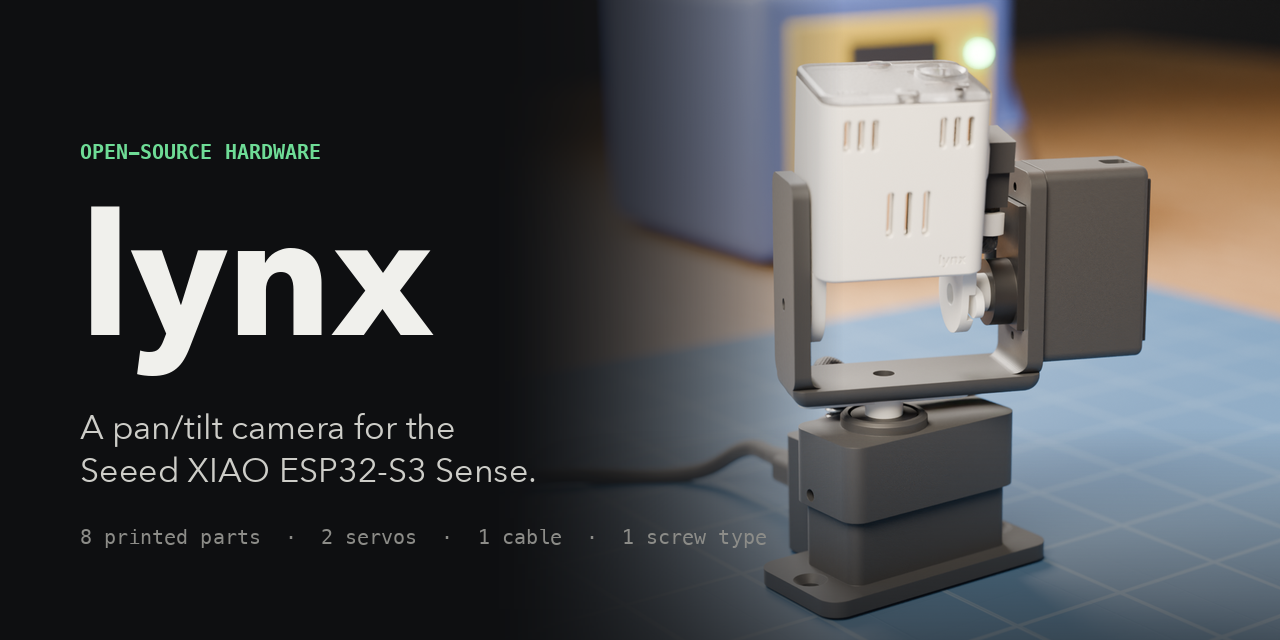
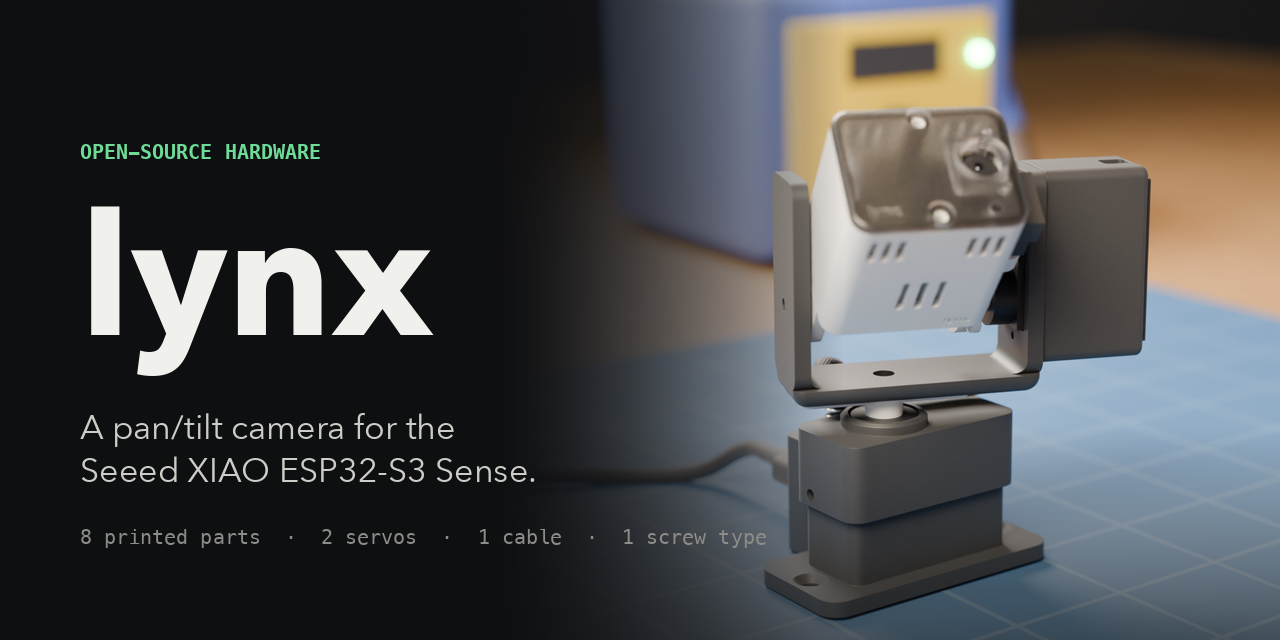
feat: rest pose leans the lens 45 degrees toward the front
Tilt 0 points the lens straight up. The site, the firmware's centre
command and boot pose, and its web UI now rest at tilt 45. A CAD sweep
confirms tilt -90..+90 is collision-free. The hero banner and social
preview are re-rendered at the new pose.

Claude-Session: https://claude.ai/code/session_01MBBuMNMMsvkZ54jHaR2o2x

Changed region(s): [[0.5938, 0.0938, 0.8438, 0.5625]]

diff --git a/web/src/main.js b/web/src/main.js
@@ -104,7 +104,8 @@ const ASSEMBLY = [
 document.getElementById("steps").innerHTML = ASSEMBLY.map(([, t]) => `<li>${t}</li>`).join("");
 // explode amount per part (0 assembled .. 1 exploded); the tilt group lifts off the yoke as a whole
 const explode = Object.fromEntries(Object.keys(EXPL).map((k) => [k, 0]));
-const state = { pan: 0, tilt: 0, lift: 0, plug: 1, card: 1, led: 0, arcs: 0 };
+const REST_TILT = 45;   // at rest the lens leans 45 deg toward the front (0 = straight up)
+const state = { pan: 0, tilt: REST_TILT, lift: 0, plug: 1, card: 1, led: 0, arcs: 0 };
 const LIFT_MM = 22;
 
 function applyParts() {
@@ -266,13 +267,13 @@ function buildTimeline() {
   tl.to(state, { led: 1, duration: 0.01 }, at(1) + 0.075);
   // sd
   toShot(tl, "sd", at(2) - 0.08, 0.11);                    // slower, gentler move into the close-up
-  tl.to(state, { pan: 0, tilt: 0, duration: 0.08 }, at(2) - 0.08);
+  tl.to(state, { pan: 0, tilt: REST_TILT, duration: 0.08 }, at(2) - 0.08);
   tl.to(state, { card: 0, duration: 0.05 }, at(2) + 0.02);
   // motion: sweep with eased glances
   toShot(tl, "motion", at(3) - 0.05, 0.07);
   tl.to(state, { arcs: 1, duration: 0.03 }, at(3));
   const m0 = at(3) + 0.02, m1 = at(4) - 0.06, step = (m1 - m0) / 6;
-  [[-88, 0], [88, 0], [0, -58], [0, 58], [-40, 25], [0, 0]].forEach(([p, t], i) =>
+  [[-88, REST_TILT], [88, REST_TILT], [0, -58], [0, 58], [-40, 25], [0, REST_TILT]].forEach(([p, t], i) =>
     tl.to(state, { pan: p, tilt: t, duration: step * 0.9, ease: "back.inOut(1.2)" }, m0 + i * step));
   tl.to(state, { arcs: 0, duration: 0.03 }, m1);
   // assembly: explode, then put back in build order

diff --git a/firmware/lynx-motion/src/page.h b/firmware/lynx-motion/src/page.h
@@ -12,7 +12,7 @@ button{margin-top:1.5rem;padding:.6rem 1.2rem;font-size:1rem}#s{opacity:.7;font-
 </style></head><body>
 <h1>lynx</h1>
 <label>Pan <span id="pv">0</span>&deg;</label><input id="pan" type="range" min="-88" max="88" value="0">
-<label>Tilt <span id="tv">0</span>&deg;</label><input id="tilt" type="range" min="-58" max="58" value="0">
+<label>Tilt <span id="tv">45</span>&deg;</label><input id="tilt" type="range" min="-58" max="58" value="45">
 <button id="c">Centre</button> <button id="w">Sweep</button>
 <div id="s"></div>
 <script>
@@ -21,7 +21,7 @@ function post(p,b){return fetch(p,{method:'POST',headers:{'Content-Type':'applic
 function look(){$('pv').textContent=$('pan').value;$('tv').textContent=$('tilt').value;
  clearTimeout(timer);timer=setTimeout(()=>post('/api/look',{pan:+$('pan').value,tilt:+$('tilt').value}),60);}
 $('pan').oninput=look;$('tilt').oninput=look;
-$('c').onclick=()=>{$('pan').value=0;$('tilt').value=0;look();post('/api/center');};
+$('c').onclick=()=>{$('pan').value=0;$('tilt').value=45;look();post('/api/center');};
 $('w').onclick=()=>post('/api/sweep');
 fetch('/api/status').then(r=>r.json()).then(j=>{
  $('pan').min=j.pan.min;$('pan').max=j.pan.max;$('tilt').min=j.tilt.min;$('tilt').max=j.tilt.max;

diff --git a/firmware/lynx-motion/lib/motion/motion.h b/firmware/lynx-motion/lib/motion/motion.h
@@ -80,7 +80,10 @@ class Motion {
  public:
   void begin(const AxisCal& pan, const AxisCal& tilt, const MotionConfig& cfg, uint32_t nowMs);
   uint32_t look(float pan, float tilt, int32_t ms, uint32_t nowMs);  // cancels sweep
-  void center(uint32_t nowMs) { look(0, 0, -1, nowMs); }
+  // Rest pose: pan centred, lens leaning 45 deg toward the front (tilt 0 = lens straight up).
+  // Positive tilt must tip the lens forward; if your servo turns the other way, set the tilt invert flag.
+  static constexpr float kRestTiltDeg = 45.0f;
+  void center(uint32_t nowMs) { look(0, kRestTiltDeg, -1, nowMs); }
   void startSweep(uint32_t nowMs);
   bool sweeping() const { return sweepStep_ >= 0; }
   void update(uint32_t nowMs);

diff --git a/firmware/lynx-motion/src/main.cpp b/firmware/lynx-motion/src/main.cpp
@@ -101,7 +101,7 @@ static void printHelp() {
       "  pan <deg>                 move pan (tilt unchanged)\n"
       "  tilt <deg>                move tilt (pan unchanged)\n"
       "  look <pan> <tilt> [ms]    move both, optional duration\n"
-      "  center                    return to 0,0\n"
+      "  center                    return to rest (pan 0, tilt 45)\n"
       "  sweep                     demo the full soft-limit range\n"
       "  limits                    show soft limits\n"
       "  limits <axis> <min> <max> set soft limits (inside mechanical +/-90 pan, +/-60 tilt)\n"
